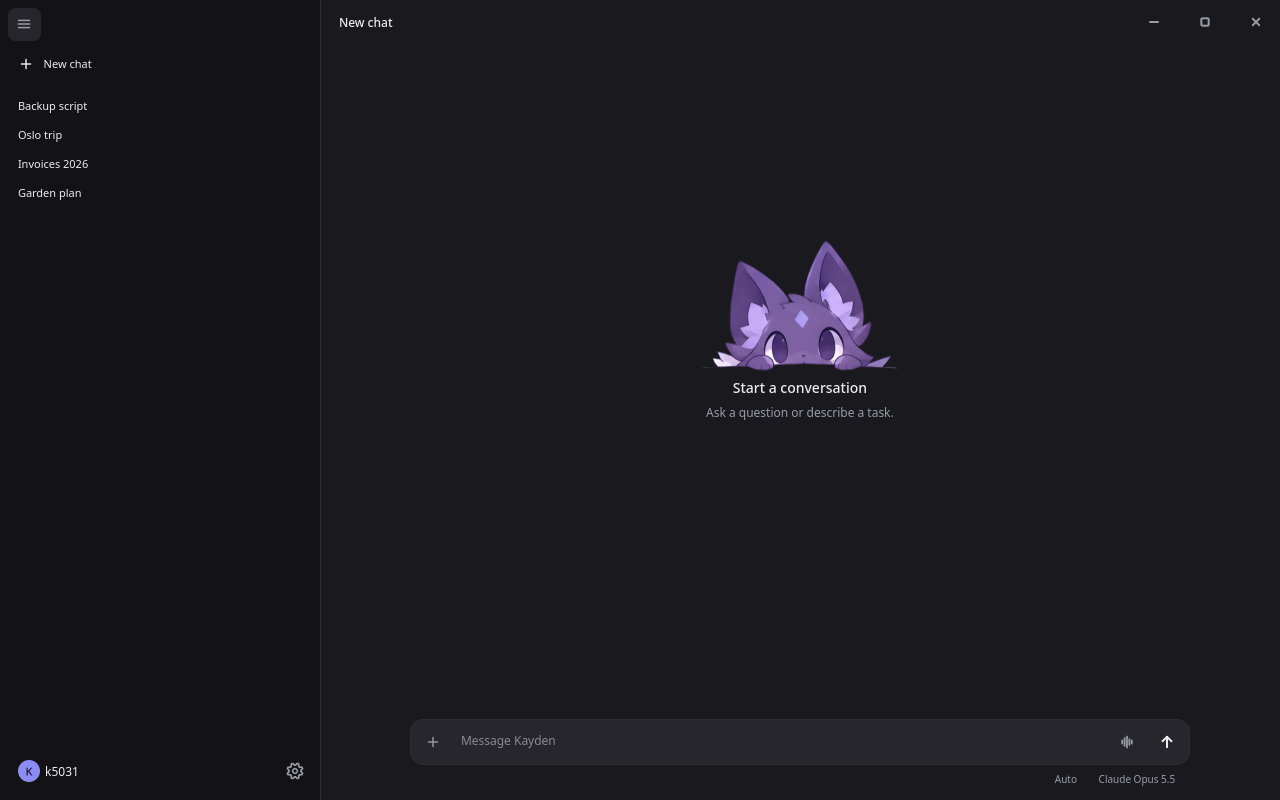
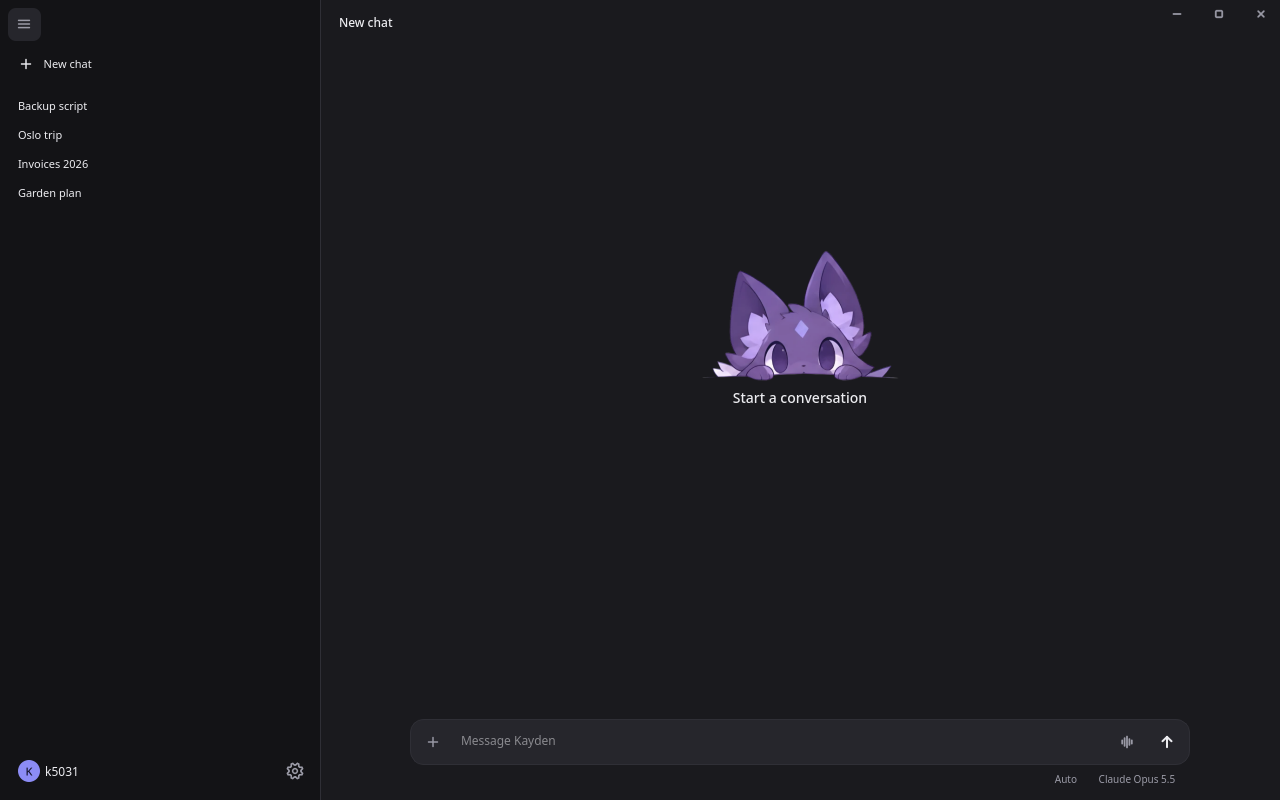
Trim the interface's explanatory text
The new chat screen is the mascot and one line; the tool servers page,
the memory, duty and server hints and the welcome say what is needed and
no more. The README's pictures are redrawn.

Changed region(s): [[0.5312, 0.3125, 0.7188, 0.5312], [0.9375, 0.0, 0.9688, 0.0312]]

diff --git a/src/kayden/frontends/desktop/window.py b/src/kayden/frontends/desktop/window.py
@@ -208,7 +208,6 @@ KEY_PAGES = {
 }
 DOCS_URL = "https://github.com/K5031/Kayden/blob/main/docs/desktop-app.md"
 EMPTY_TITLE = "Start a conversation"
-EMPTY_HINT = "Ask a question or describe a task."
 THUMBNAIL = 56  # px: a picture waiting above the message box
 SHOWN_IMAGE = 260  # px: a picture in a message you sent, at most
 BUBBLE_SHARE = 0.75  # a message of yours takes at most this share of the transcript's width
@@ -1820,10 +1819,9 @@ class MainWindow(QMainWindow):
         empty = QVBoxLayout(self.empty_state)
         empty.addStretch(2)
         empty.addWidget(_mascot(MASCOT_WIDTH), 0, Qt.AlignmentFlag.AlignHCenter)
-        for line in (_label(EMPTY_TITLE, selectable=False, role="title"),
-                     _label(EMPTY_HINT, selectable=False, tone="muted")):
-            line.setAlignment(Qt.AlignmentFlag.AlignHCenter)
-            empty.addWidget(line)
+        title = _label(EMPTY_TITLE, selectable=False, role="title")
+        title.setAlignment(Qt.AlignmentFlag.AlignHCenter)
+        empty.addWidget(title)
         # A new chat's folder, and recent ones to start it in instead; only before the first
         # message (the header's tooltip shows it after).
         self.folder_button = QToolButton(objectName="folderPicker")
@@ -3041,8 +3039,6 @@ class McpDialog(QDialog):
         layout.setContentsMargins(*((4, 16, 18, 4) if embedded else (20, 18, 20, 16)))
         layout.addWidget(_label("Tool servers (MCP)", selectable=False,
                                 role="title" if embedded else "heading"))
-        layout.addWidget(_label("Each server gives Kayden more tools, such as GitHub, a "
-                                "database or your calendar.", tone="muted"))
         self.servers = QListWidget()
         self.servers.setAccessibleName("Tool servers")
         self.servers.setItemDelegate(RowDelegate(self.servers))
@@ -3312,8 +3308,7 @@ class SettingsDialog(QDialog):
             "Spending": _page(
                 "Spending", _setting("Spending limit (US$)", f"Kayden stops when it reaches it. "
                          f"{dollars(spent)} spent so far.", self.limit),
-                *((_setting("Limit per sub-session (US$)", "What a sub-session may spend "
-                            "unless the agent gives it less; empty for no limit. Not part "
+                *((_setting("Limit per sub-session (US$)", "Empty for no limit. Not part "
                             "of your own limit.",
                             self.child_limit),) if sessions is not None else ())),
             "Permissions": _page(
@@ -3498,8 +3493,7 @@ class WelcomeDialog(QDialog):
         page = QWidget()
         column = QVBoxLayout(page)
         column.setContentsMargins(0, 8, 0, 0)
-        column.addWidget(_label("Choose your AI provider. Kayden uses its models and you pay "
-                                "it directly for what you use."))
+        column.addWidget(_label("Choose your AI provider. You pay it directly."))
         self.provider = QListWidget(objectName="choices")
         # Rows are sized by the style sheet, and the list lays them out as soon as one is
         # selected: without this they are placed by their unstyled height and overlap.
@@ -3565,14 +3559,12 @@ class WelcomeDialog(QDialog):
         folder_row.addWidget(self.folder, 1)
         folder_row.addWidget(browse)
         column.addLayout(folder_row)
-        column.addWidget(_label("Spending limit in US dollars (optional). Kayden stops when it "
-                                "is reached."))
+        column.addWidget(_label("Spending limit in US dollars (optional)."))
         self.limit = QLineEdit()
         self.limit.setPlaceholderText("No limit")
         column.addWidget(self.limit)
-        column.addWidget(_label("Kayden works freely in its work folder and asks before "
-                                "anything outside it. You can change that, and everything "
-                                "here, in Settings."))
+        column.addWidget(_label("Kayden works freely in this folder and asks before "
+                                "anything outside it."))
         self.finish_error = _label()
         theme.mark(self.finish_error, "tone", "error")
         self.finish_error.hide()

diff --git a/src/kayden/frontends/common.py b/src/kayden/frontends/common.py
@@ -342,9 +342,9 @@ def restart_notice(settings: Settings) -> str | None:
 
 
 MCP_WARNING = ("An MCP server is someone else's program running with your permissions: add "
-               "only servers you trust. Kayden checks or asks before each of its actions.")
-MCP_VARIABLES_HINT = ("One per line, NAME=value, for keys or tokens the server needs. Values "
-                      "are kept in your system's keychain; leave a value empty to keep it.")
+               "only servers you trust.")
+MCP_VARIABLES_HINT = ("One per line, NAME=value. Kept in your keychain; leave a value empty "
+                      "to keep it.")
 
 
 def mcp_server(name: str, target: str, variables: str) -> McpServer:
@@ -386,9 +386,8 @@ DUTY_KIND_LABELS = {
     DutyKind.DUTY: "Keep doing it until I turn it off",
     DutyKind.GOAL: "Until it is done",
 }
-DUTY_HINT = ("Kayden carries this on by itself: it keeps a plan, works on it, and checks in "
-             "again on its own. It pauses when you press Stop, when Kayden restarts, or when "
-             "a spending limit you set is reached.")
+DUTY_HINT = ("Kayden carries this on by itself. It pauses on Stop, on a restart, and at "
+             "your spending limit.")
 PLAN_HINT = ("One step per line: [todo], [doing], [done] or [dropped], the step, then "
              "optionally | due YYYY-MM-DD HH:MM and | a note.")
 _PLAN_LINE = re.compile(r"\[(\w+)\]\s*(.*)")
@@ -427,7 +426,7 @@ def _when(t: float) -> str:
     return when.strftime("%H:%M" if when.date() == datetime.now().date() else "%Y-%m-%d %H:%M")
 
 
-MEMORY_HINT = 'What Kayden remembers across conversations: every request sees the list, and Kayden opens one when it is relevant. Kayden writes them; you can too.'
+MEMORY_HINT = "What Kayden remembers across conversations. You can edit it."
 
 # Calls not shown as steps: the wrap-up card and the plan's checklist show them instead.
 CARD_TOOLS = frozenset({"wrap_up", "update_plan"})

diff --git a/src/kayden/frontends/tui/__init__.py b/src/kayden/frontends/tui/__init__.py
@@ -1076,8 +1076,6 @@ class McpScreen(ListScreen):
     def compose(self) -> ComposeResult:
         with Vertical(classes="dialog"):
             yield Label("Tool servers (MCP)", classes="title")
-            yield Label("Each server gives Kayden more tools, such as GitHub, a database or "
-                        "your calendar.", classes="hint")
             yield OptionList(id="servers")
             yield Label("", id="mcp-notice", classes="hint")
             with Horizontal(classes="buttons actions"):
